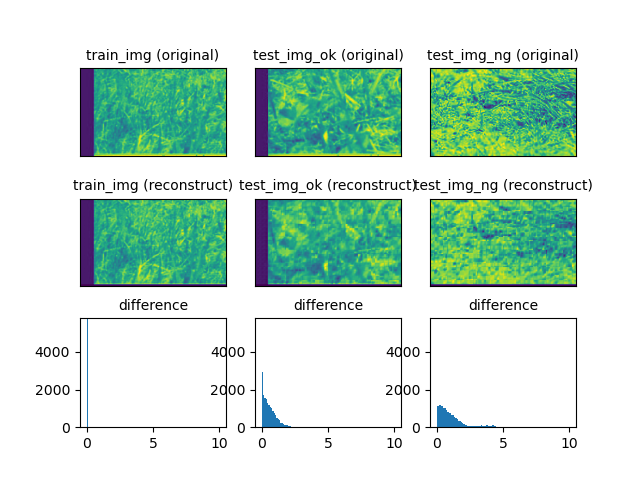
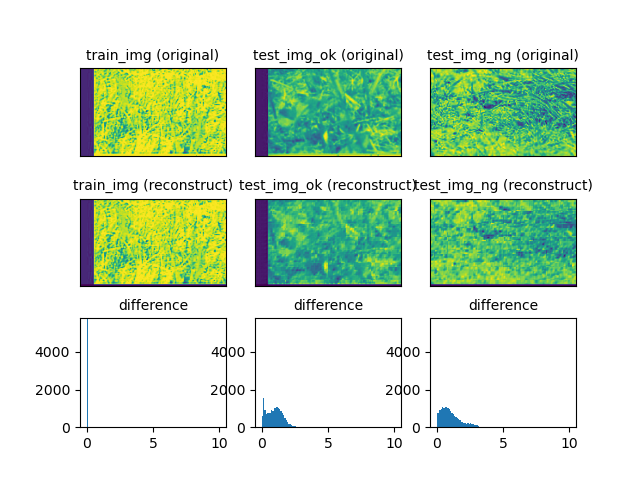
Edge Enphasis has been added

diff --git a/window_detect_irregular.py b/window_detect_irregular.py
@@ -1,3 +1,4 @@
+import cv2
 import numpy as np
 from math import prod
 from spmimage.decomposition import KSVD
@@ -5,6 +6,11 @@ from PIL import Image
 from sklearn.preprocessing import StandardScaler
 from spmimage.feature_extraction.image import extract_simple_patches_2d, reconstruct_from_simple_patches_2d
 import matplotlib.pyplot as plt
+import sys
+
+
+
+
 
 """
 （学習の原理について）
@@ -157,7 +163,7 @@ def evaluate(Y,Y_rec_ok,Y_rec_ng,patch_size,original_img_size, img_list, d_num):
     plt.title("difference", fontsize=fs)
     plt.savefig(f"results_data/part_{d_num}")
     
-    # plt.show()
+    plt.show()
     plt.close()
     print(np.average(abs(Y_rec_ok-Y)).reshape(-1,)) # 評価方法要検討
     print(np.average(abs(Y_rec_ng-Y)).reshape(-1,))
@@ -218,6 +224,13 @@ def estimate(train_img_part, test_img_ok_part, test_img_ng_part, img_size, d_num
     evaluate(Y,Y_rec_ok,Y_rec_ng,patch_size,img_size, img_list, d_num)
 
 
+def make_sharp_kernel(k: int):
+      return np.array([
+    [-k / 9, -k / 9, -k / 9],
+    [-k / 9, 1 + 8 * k / 9, k / 9],
+    [-k / 9, -k / 9, -k / 9]
+  ], np.float32)
+
 
 
 # 本編
@@ -232,6 +245,31 @@ patch_size=(5,5)
 n_components=6
 transform_n_nonzero_coefs=3
 max_iter=15
+
+
+
+# OpenCVによるエッジ強調（現在は標準入力でカーネルパラメータ指定）
+edge_enphasis = sys.argv
+if len(edge_enphasis)<2:
+    print(f'No argument "edge_enphasis" :python {edge_enphasis[0]} true;str kernel-param;int or false;str')
+    sys.exit()
+
+if bool(edge_enphasis[1]):
+    img = cv2.imread("img_data/img_train_RPC.jpg")
+    img = cv2.cvtColor(img, cv2.COLOR_BGR2RGB)
+    try:
+        kernel = make_sharp_kernel(int(edge_enphasis[2]))
+    except:
+        print(f'"kernel-param" should be given as int:python {edge_enphasis[0]} true;str kernel-param;int or false;str')
+        sys.exit()
+    img = cv2.filter2D(img, -1, kernel)
+    cv2.imwrite("results_data/img_train_RPC.jpg", img)
+    plt.figure(figsize=(10,8))
+    plt.imshow(img)
+    plt.show()
+else:
+    img = cv2.imread("img_data/img_train_RPC.jpg")
+    cv2.imwrite("results_data/img_train_RPC.jpg", img)
 
 
 """
@@ -250,12 +288,13 @@ if edge_mode:
     test_img_ng=np.asarray(Image.open("img_data/tochigi7_edge.jpg").convert('L'))
 else:
     # 一旦二分の一で画像上部排除
-    train_img = np.asarray(Image.open("img_data/img_train_RPC.jpg").convert('L'))
+    train_img = np.asarray(Image.open("results_data/img_train_RPC.jpg").convert('L'))
     train_img = train_img[int(0.5*train_img.shape[0]):]
     test_img_ok=np.asarray(Image.open("img_data/img_test_ok_RPC.jpg").convert('L'))
     test_img_ok = test_img_ok[int(0.5*test_img_ok.shape[0]):]
     test_img_ng=np.asarray(Image.open("img_data/img_1.jpg").convert('L'))
     test_img_ng = test_img_ng[int(-train_img.shape[0]):, :train_img.shape[1]]
+
 
 # 探査領域の分割数を指定
 detect_shape = (2, 3)
@@ -266,4 +305,3 @@ train_img_list, test_img_ok_list, test_img_ng_list, partial_size = img_window(tr
 # 各探査領域に対して異常検出を行う
 for k in range(prod(detect_shape)):
     estimate(train_img_list[k], test_img_ok_list[k], test_img_ng_list[k], partial_size, d_num=k+1)
-    # plt.show()
